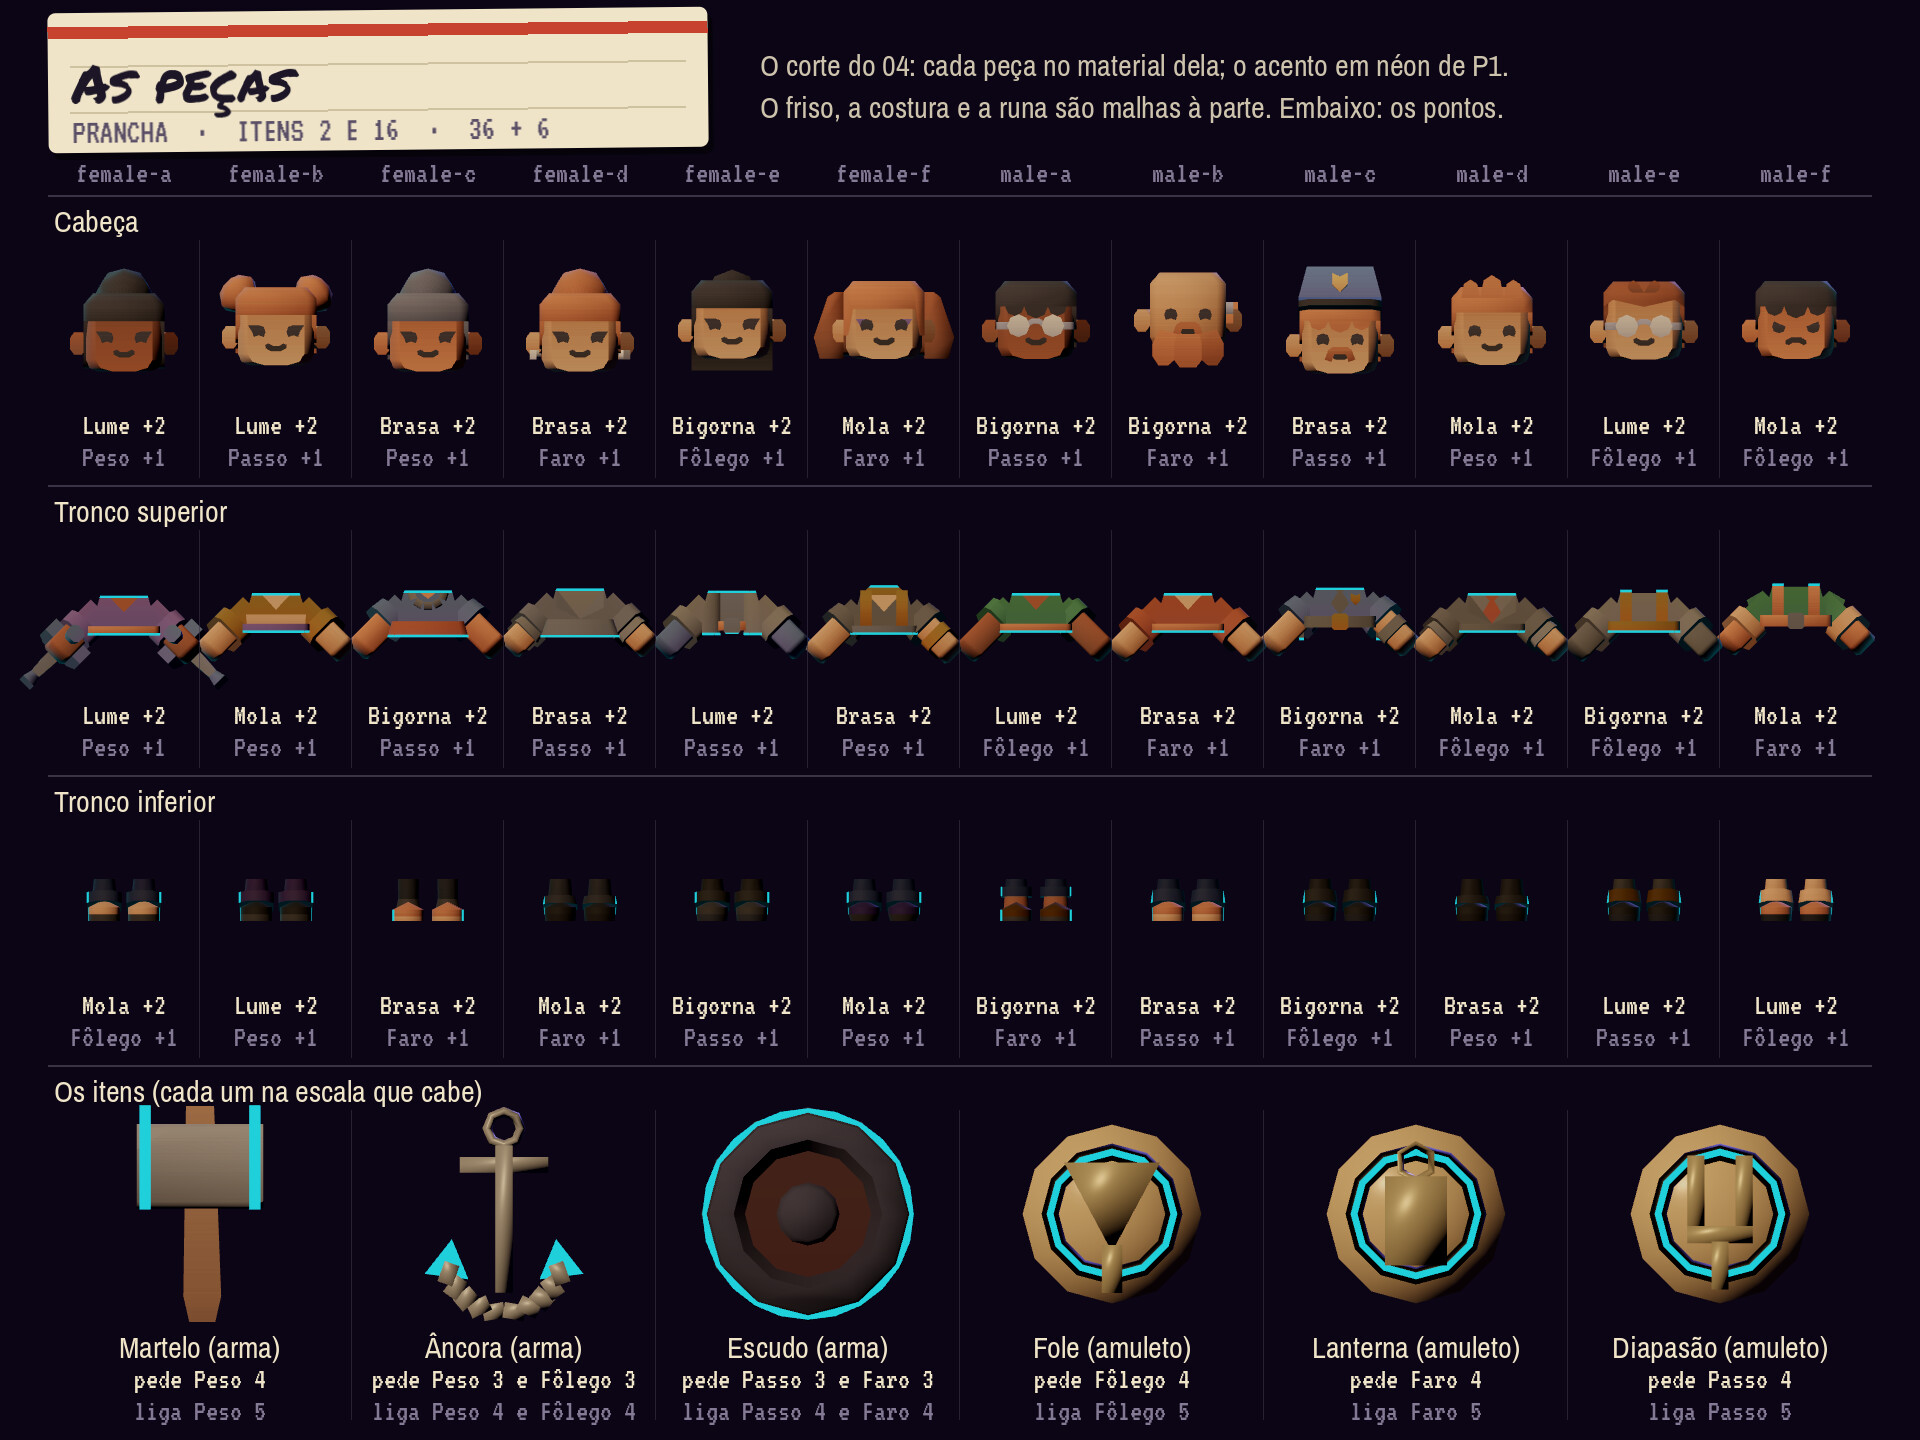
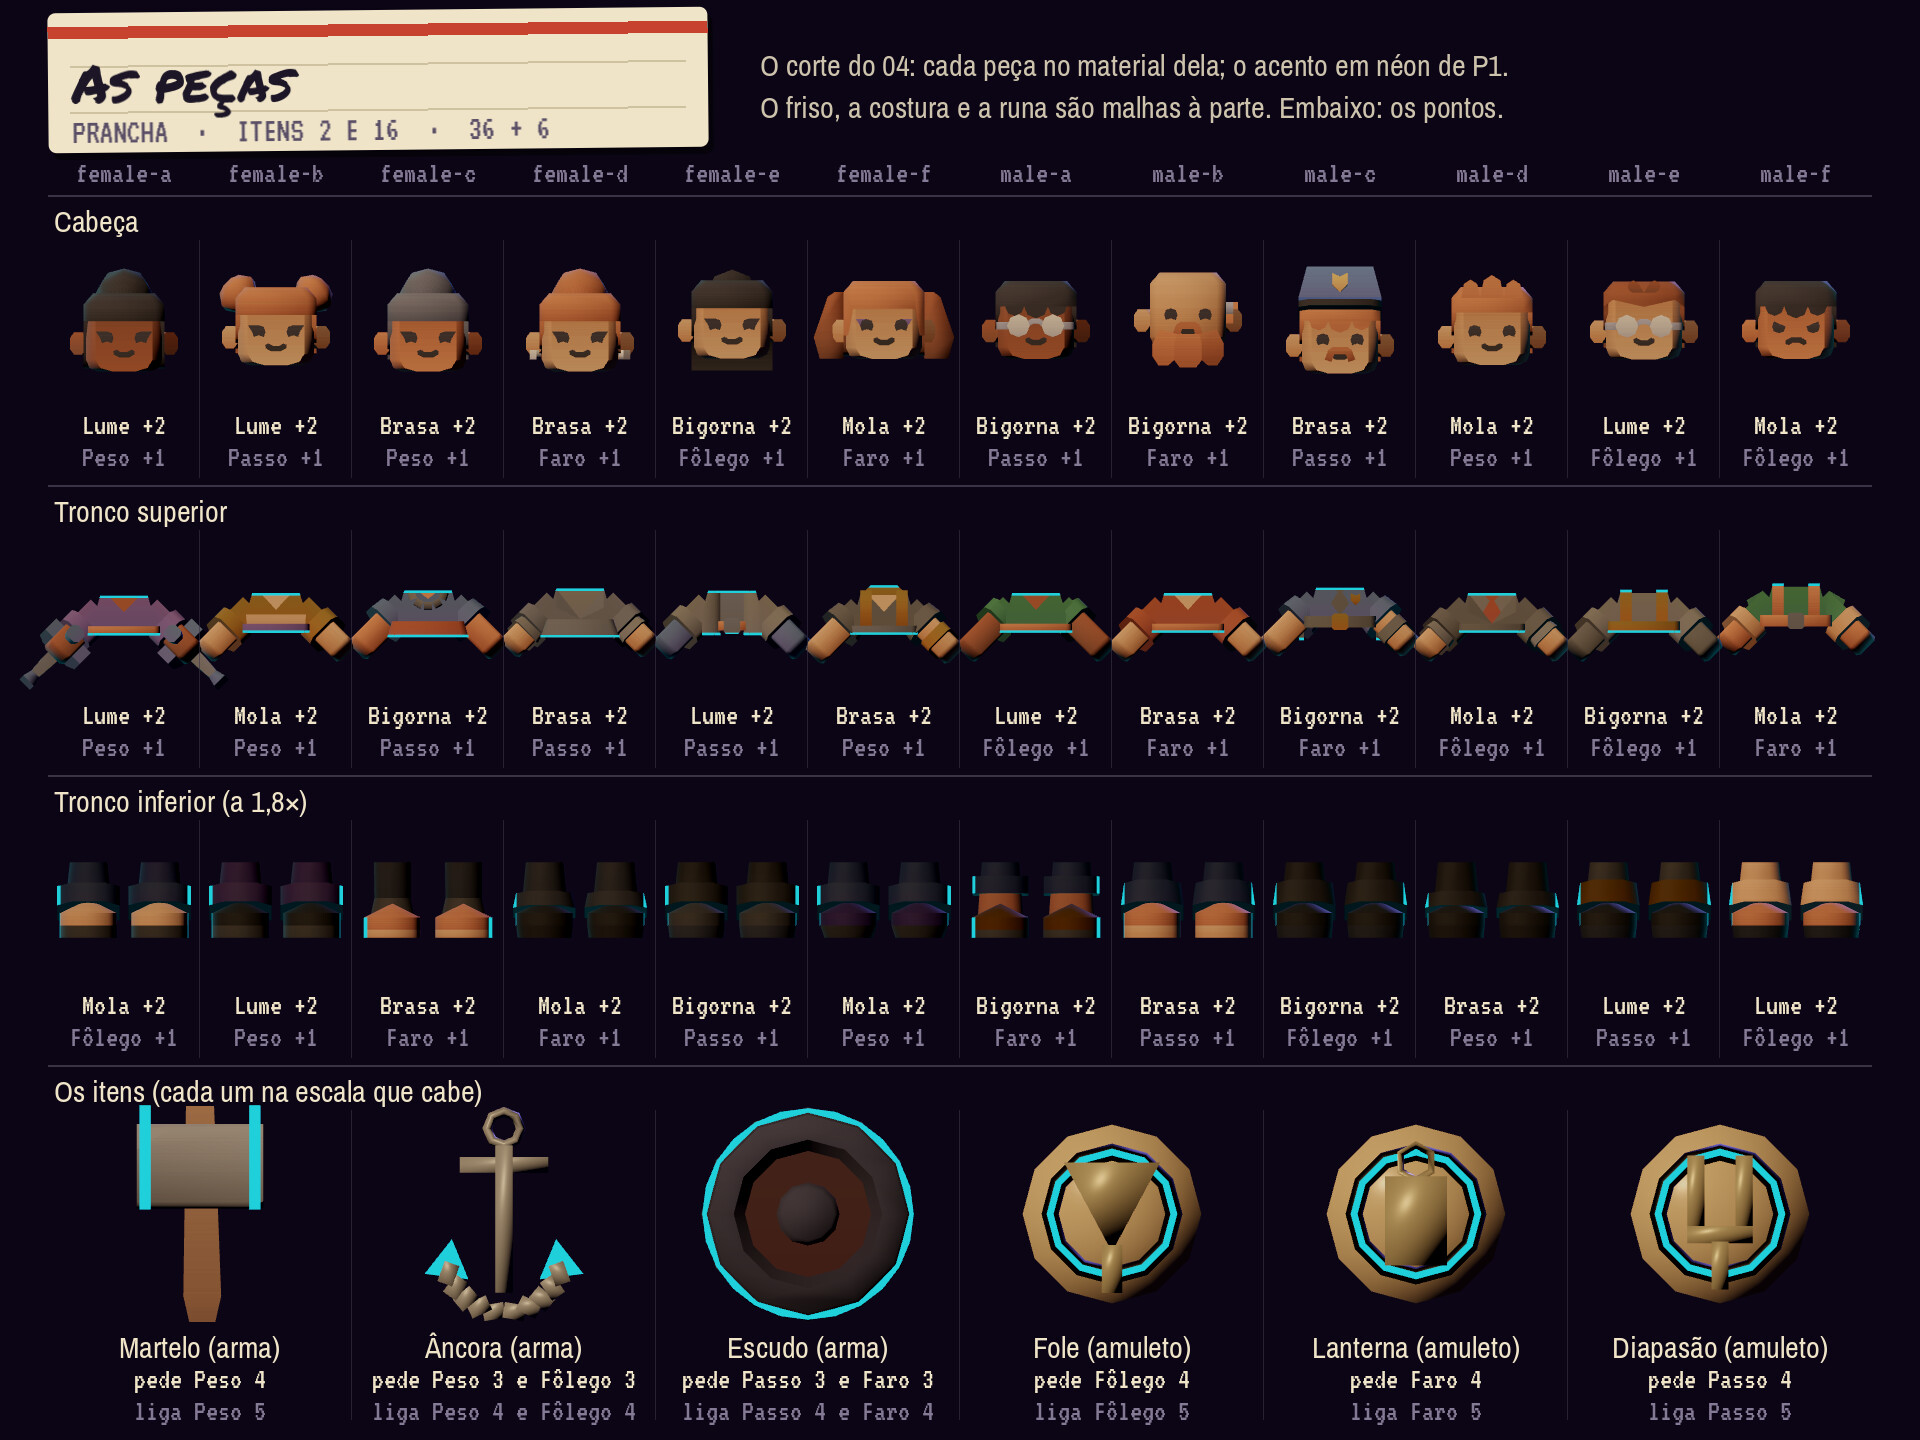
fix(pranchas): o encaixe nos instantes do 04 e a calça da 11 a 1,8 vezes
A 20 mostrava a peça nova caindo aos 60 ms, antes do encaixe, e a pose e o
idle adiantados. Agora: 0, 125, 190, 375, 500 e 1000 ms, com a peça, as
faíscas e o acento no mesmo quadro do encaixe. Na 11, o inferior sai a 1,8
vezes, com o rótulo. O 04 diz o pulso do item no encaixe e deixa de dizer
que o rosto humano passa na faixa; o 02 registra a exceção do rosto.

diff --git a/docs/jogo/direcao-de-arte.html b/docs/jogo/direcao-de-arte.html
@@ -224,7 +224,7 @@ audio { width: 100%; height: 36px; color-scheme: dark; }
   <p><b>O ajuste de 09/10.</b> As peças se diferenciam na montagem: cada uma no material dela, numa faixa de valor própria (a cabeça clara, o superior em tecido médio, o inferior em couro escuro), com o croma até 0,10. O néon do dono saiu do corpo: mora só no contorno, no friso do superior, na costura do inferior e na runa do item, malhas à parte a energia 1,6.</p>
   <div class="grade">
     <figure class="quadro largo"><img src="../imagens/direcao/10_montagem.jpg" alt="A tela de montagem: quatro colunas, um cavaleiro em cada, com as peças, os stats e o nome" loading="lazy"><figcaption><b>10 MONTAGEM</b>A tela de montagem, as quatro colunas ao mesmo tempo, quatro raças: P1 orc forjado, P2 humana com a fita das cabeças, P3 raposa na cadeira, P4 autômato. Cada peça na cor dela; a cor do lugar no contorno, no acento e no contra-luz baixo.</figcaption><span class="prova">Prova <a href="arte/04-o-cavaleiro.md">04 O cavaleiro montável</a> · <a href="sistemas/pecas.csv">pecas.csv</a> · <a href="sistemas/itens.csv">itens.csv</a></span></figure>
-    <figure class="quadro largo"><img src="../imagens/direcao/11_pecas.jpg" alt="As 36 peças de frente, na mesma escala, com o emblema e o secundário de cada uma, e os seis itens" loading="lazy"><figcaption><b>11 PEÇAS</b>As 36 peças de frente, na mesma escala, cada uma no material dela e com o acento aceso em P1 (o friso, a costura). Embaixo, os seis itens com a runa acesa, o medalhão em cerâmica e latão.</figcaption><span class="prova">Prova <a href="arte/04-o-cavaleiro.md#as-peças">04, as peças</a> · <a href="sistemas/README.md">o RPG da Forja</a></span></figure>
+    <figure class="quadro largo"><img src="../imagens/direcao/11_pecas.jpg" alt="As 36 peças de frente, na mesma escala, com o emblema e o secundário de cada uma, e os seis itens" loading="lazy"><figcaption><b>11 PEÇAS</b>As 36 peças de frente, cada uma no material dela (o inferior a 1,8×, para a calça se ler) e com o acento aceso em P1 (o friso, a costura). Embaixo, os seis itens com a runa acesa, o medalhão em cerâmica e latão.</figcaption><span class="prova">Prova <a href="arte/04-o-cavaleiro.md#as-peças">04, as peças</a> · <a href="sistemas/README.md">o RPG da Forja</a></span></figure>
   </div>
   <p class="prova">E a tabela dos contatos (item 9): <a href="arte/dados/contatos.csv">dados/contatos.csv</a>, o quadro em que cada uma das 32 animações acerta. O golpe acerta a 0,208 s; a forja e o movimento leem daí.</p>
   <p class="prova">E a medida das peças (item 17): <a href="arte/dados/pecas_medidas.csv">dados/pecas_medidas.csv</a>, a L, o croma, o ΔE até cada jogador e a área do acento de cada uma das 36 peças.</p>
@@ -235,7 +235,7 @@ audio { width: 100%; height: 36px; color-scheme: dark; }
   <p>A raça é aparência: troca a cabeça, a pele e a cauda; o superior e o inferior seguem as peças humanas. Sem stat, sem colisão. E cada troca de peça dá gosto: o encaixe se ouve, se sente na mão e se vê.</p>
   <div class="grade">
     <figure class="quadro largo"><img src="../imagens/direcao/19_racas.jpg" alt="Cinco raças por quatro lugares, de frente e a 3/4, e embaixo as cinco cabeças a 64 px em cinza e em silhueta" loading="lazy"><figcaption><b>19 RAÇAS</b>Humana, Orc, Autômato, Golem e Raposa, nos quatro lugares, de frente e a 3/4. Embaixo, o teste do 04: as cinco cabeças a 64 px, em cinza e em silhueta, se distinguem pela forma.</figcaption><span class="prova">Prova <a href="arte/04-o-cavaleiro.md#as-raças">04, as raças</a></span></figure>
-    <figure class="quadro largo"><img src="../imagens/direcao/20_encaixe.jpg" alt="Seis instantes de uma troca de peça, de 0 a 750 ms" loading="lazy"><figcaption><b>20 ENCAIXE</b>Uma troca do superior em seis instantes: o toque, a peça caindo, o encaixe com 8 faíscas e o acento a 2,6, a pose da linha, o giro de 25° e a volta ao idle.</figcaption><span class="prova">Prova <a href="arte/04-o-cavaleiro.md#o-primeiro-minuto">04, o primeiro minuto</a></span></figure>
+    <figure class="quadro largo"><img src="../imagens/direcao/20_encaixe.jpg" alt="Seis instantes de uma troca de peça, de 0 a 1000 ms" loading="lazy"><figcaption><b>20 ENCAIXE</b>Uma troca do superior em seis instantes: o toque (0 ms); o encaixe na semicolcheia (125 ms), com a peça caindo, 8 faíscas e o acento a 2,6 no mesmo quadro; a peça assentada (190 ms); a pose da linha (375 ms); o giro de 25° (500 ms); o descanso (1000 ms). A troca inteira cabe em 1 s.</figcaption><span class="prova">Prova <a href="arte/04-o-cavaleiro.md#o-primeiro-minuto">04, o primeiro minuto</a></span></figure>
   </div>
 </section>
 

diff --git a/docs/jogo/arte/04-o-cavaleiro.md b/docs/jogo/arte/04-o-cavaleiro.md
@@ -216,8 +216,8 @@ dele vai de y 0,34 a 0,67).
 | **Golem de escória** | bloco facetado de 0,34 × 0,24 × 0,30, sem pescoço (desce 0,03); a rachadura: três traços de 0,005 num vão `JANELA` na testa, com o acento dentro | um punho de pedra (cubo chanfrado de 0,075) em cada punho | nenhuma | o osso `torso` a 1,15 em x e z (ombro e braço mais largos); a cabeça compensa a 0,87 | `PELE_ESCORIA` | dois tufos de líquen de 0,05 no alto | por código, até 400 triângulos, no osso `head`; os punhos no punho que `Montar.mao` acha |
 | **Raposa ferreira** | caixa de 0,28 × 0,24 × 0,26; focinho em prisma de 0,12 × 0,08 × 0,10 com a ponta em `TINTA`; duas orelhas em prisma de 0,08 × 0,10; olhos de 0,03 em `TINTA` | as do superior, em pelo (`PELE_RAPOSA`) | o `tail` do `animal-fox` (Kenney Cube Pets) a ×0,33 (0,30 de comprimento), no osso `root` em (0; 0,20; −0,10), balança ±8° a cada batida, `ENTRA_SAI` | a mesma do humano | `PELE_RAPOSA` | a ponta das orelhas e a ponta da cauda | a cabeça por código, até 300 triângulos; a cauda da Kenney, com o colormap do Cube Pets na pasta dele |
 
-A cabeça de cada raça, como a humana, passa no teste de 64 px e cinza: o rosto
-na faixa de 0,68 a 0,80, e a silhueta própria (as presas e a cabeça alta do
+A cabeça de cada raça passa no teste de 64 px e cinza: o rosto na faixa de
+0,68 a 0,80 (a pele é token), e a silhueta própria (as presas e a cabeça alta do
 orc, a antena do autômato, o bloco sem pescoço do golem, as orelhas e o
 focinho da raposa).
 
@@ -373,7 +373,7 @@ batida tem 500 ms, a colcheia 250 ms e a semicolcheia 125 ms.
 | quando | o que acontece | quanto dura |
 | --- | --- | --- |
 | o quadro do toque (0 ms) | a seta apertada (◀ ou ▶) cresce a 1,2 e volta, `MOLA`; a peça velha afunda à escala 0,92, `ENTRA` | 4 quadros; 2 quadros |
-| **o encaixe**: a semicolcheia seguinte (de 0 a 125 ms depois do toque) | a peça nova cai de 0,06 acima e chega da escala 0,9 a 1,0, `MOLA`; `ui_peca` na altura da parte (cabeça +7, superior +4, inferior 0, item −5 semitons) no alto-falante do dono e na TV a −12 dB; o pulso de metal de 150 Hz nos atuadores; 8 faíscas na junta, na cor do dono, energia 2,4; o acento da peça nova sobe a 2,6 e volta a 1,6, `SAI`; o VU anda um segmento a cada 30 ms | tudo no mesmo quadro de 16,7 ms; o som 120 ms, o pulso 40 ms, as faíscas 12 quadros, o acento 250 ms |
+| **o encaixe**: a semicolcheia seguinte (de 0 a 125 ms depois do toque) | a peça nova cai de 0,06 acima e chega da escala 0,9 a 1,0, `MOLA`; `ui_peca` na altura da parte (cabeça +7, superior +4, inferior 0, item −5 semitons) no alto-falante do dono e na TV a −12 dB; o pulso de metal de 150 Hz nos atuadores (na arma e no amuleto, o pulso do item, 80 ms, pelo [03](03-som.md#o-casamento-evento-por-evento)); 8 faíscas na junta, na cor do dono, energia 2,4; o acento da peça nova sobe a 2,6 e volta a 1,6, `SAI`; o VU anda um segmento a cada 30 ms | tudo no mesmo quadro de 16,7 ms; o som 120 ms, o pulso 40 ms, as faíscas 12 quadros, o acento 250 ms |
 | o encaixe + 250 ms (a colcheia), se nenhum toque novo chegou | a pose de reação e o giro da plataforma (as tabelas abaixo) | 500 ms (1 batida) |
 | a mesma colcheia, na troca de cabeça ou de raça | o pio da cabeça nova, `pio_p{n}_{intervalo}`, na TV e no alto-falante | 300 ms |
 | a batida seguinte, se o arquétipo mudou | a etiqueta vira (`ENTRA_SAI`) e a caneta reescreve o arquétipo com `fx_caneta` | 180 ms; 400 ms |

diff --git a/docs/jogo/arte/PRODUCAO.md b/docs/jogo/arte/PRODUCAO.md
@@ -343,12 +343,17 @@ do corpo e o ΔE OKLab até cada `JOGADOR`.
 `docs/imagens/direcao/20_encaixe.jpg` (1920×1080: seis miniaturas de
 640×540), com `20_encaixe` no `QUADROS`.
 
-**Pronto quando:** os instantes 0, 60, 125, 250, 500 e 750 ms da troca de
+**Pronto quando:** os instantes 0, 125, 190, 375, 500 e 1000 ms da troca de
 uma peça, pela linha do tempo do
-[04](04-o-cavaleiro.md#o-primeiro-minuto): a seta, a peça caindo 0,06 m, o
-encaixe com as 8 faíscas e o acento a 2,6, a pose da linha, o giro da
-plataforma a 25° e a volta ao `idle`; o instante e o que acontece escritos
-embaixo de cada miniatura, em VT323 30.
+[04](04-o-cavaleiro.md#o-primeiro-minuto), com o encaixe no pior caso (o
+toque logo depois de uma semicolcheia): a seta e a peça velha a 0,92; o
+encaixe, com a peça nova a 0,06 acima e na escala 0,9, as 8 faíscas e o
+acento a 2,6 no mesmo quadro; a peça assentada 4 quadros depois; a pose da
+linha na colcheia seguinte; o giro da plataforma a 25°; o descanso em
+`idle`; o instante e o que acontece escritos embaixo de cada miniatura, em
+VT323 30. Na conferência, os instantes de 60, 250 e 750 ms saíram: a peça
+nova caía antes do encaixe, e a pose e o idle vinham 125 ms e 250 ms antes
+da linha do tempo do 04.
 
 ### 19 A página
 
@@ -372,10 +377,12 @@ e no [04, o que mudou no estudo](04-o-cavaleiro.md#o-que-mudou-no-estudo-em-0910
   de 144 pares. A pele não se clareou: é a diversidade de tons da Kenney. A
   proposta é medir o rosto pelo contraste com o superior, com a gola acesa
   onde o par não chega a 0,10. Decide o diretor de arte.
-- **Item 15, o que não se mediu.** A cauda pelo vão da cadeira só se vê na
-  10 (P3). As mãos de pinça e os punhos de pedra não foram conferidos nas 32
+- **Item 15, o que não se mediu.** A cauda pelo vão da cadeira não aparece
+  em prancha nenhuma: a 10 é de frente e o encosto a esconde. As mãos de pinça e os punhos de pedra não foram conferidos nas 32
   animações, uma a uma; nas pranchas (idle e holding-both) seguem o osso.
-- **Item 16, a linha das calças na 11.** Sai pequena, como antes.
+- **Item 16, a linha das calças na 11.** Resolvido na conferência: o
+  inferior sai a 1,8× (as pernas davam cerca de 42 px, agora 76), com o
+  rótulo «Tronco inferior (a 1,8×)».
 
 ## Os sons
 

diff --git a/docs/jogo/arte/02-cor-e-letra.md b/docs/jogo/arte/02-cor-e-letra.md
@@ -87,6 +87,11 @@ acima do couro mais claro (0,36). Em cinza, o cavaleiro tem três faixas: a
 cabeça clara, o tronco médio, as pernas escuras. O item, claro, se lê contra
 o tecido do braço que o segura.
 
+O rosto humano é a exceção, por ora: a pele da Kenney vai de L 0,52 a 0,72 e
+não se clareia, para manter os tons de pele. Só 2 dos 12 rostos caem na
+faixa; o critério (a faixa ou o contraste de 0,10 com o superior) espera o
+diretor de arte, no [04](04-o-cavaleiro.md#o-que-a-medida-deu-em-0910).
+
 **A peça nunca é néon.** Duas condições, conferidas por script:
 
 - croma de até 0,10 (o néon de jogador mais fraco, o ciano, tem croma 0,141);
